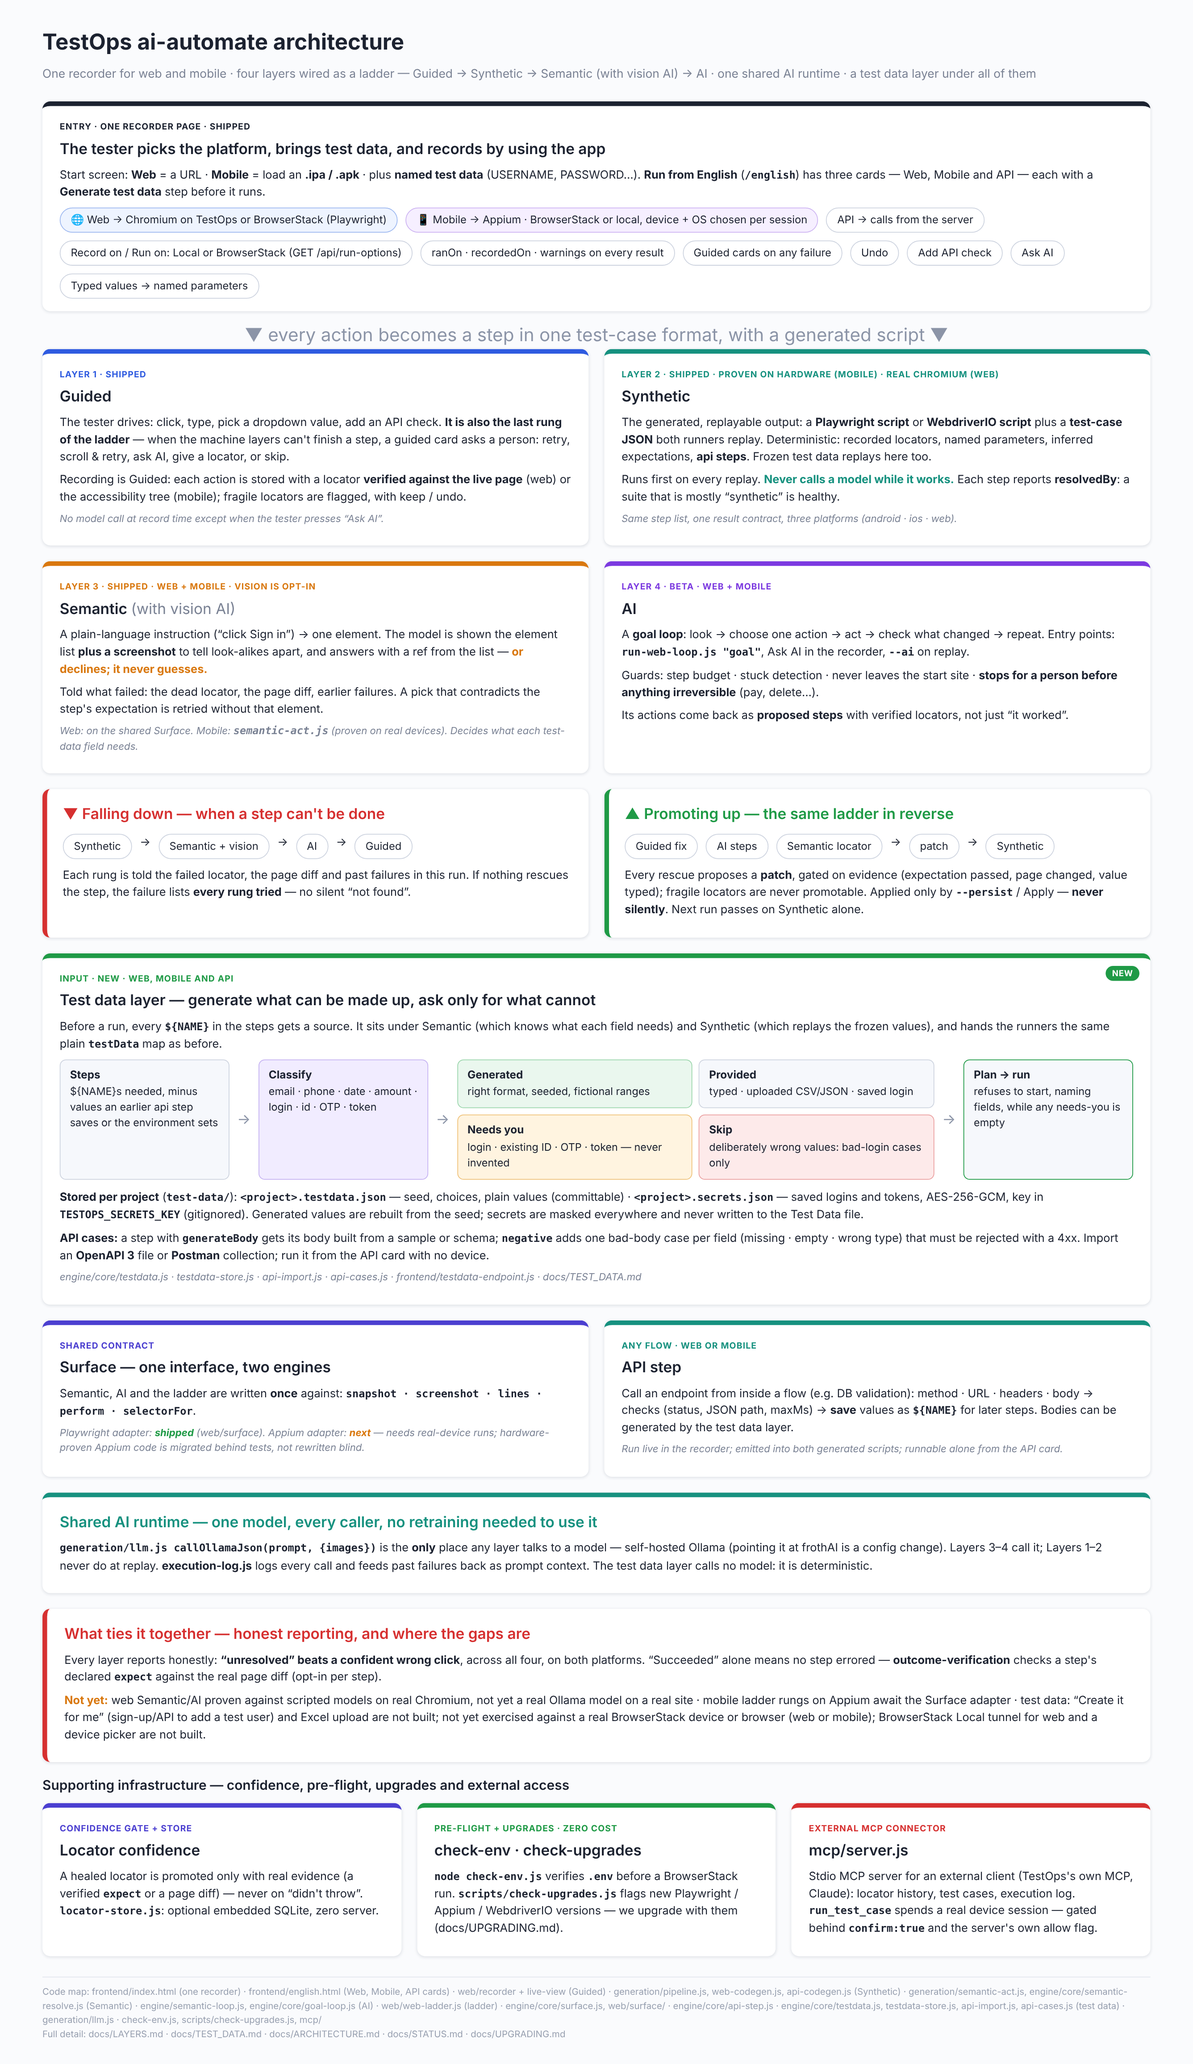
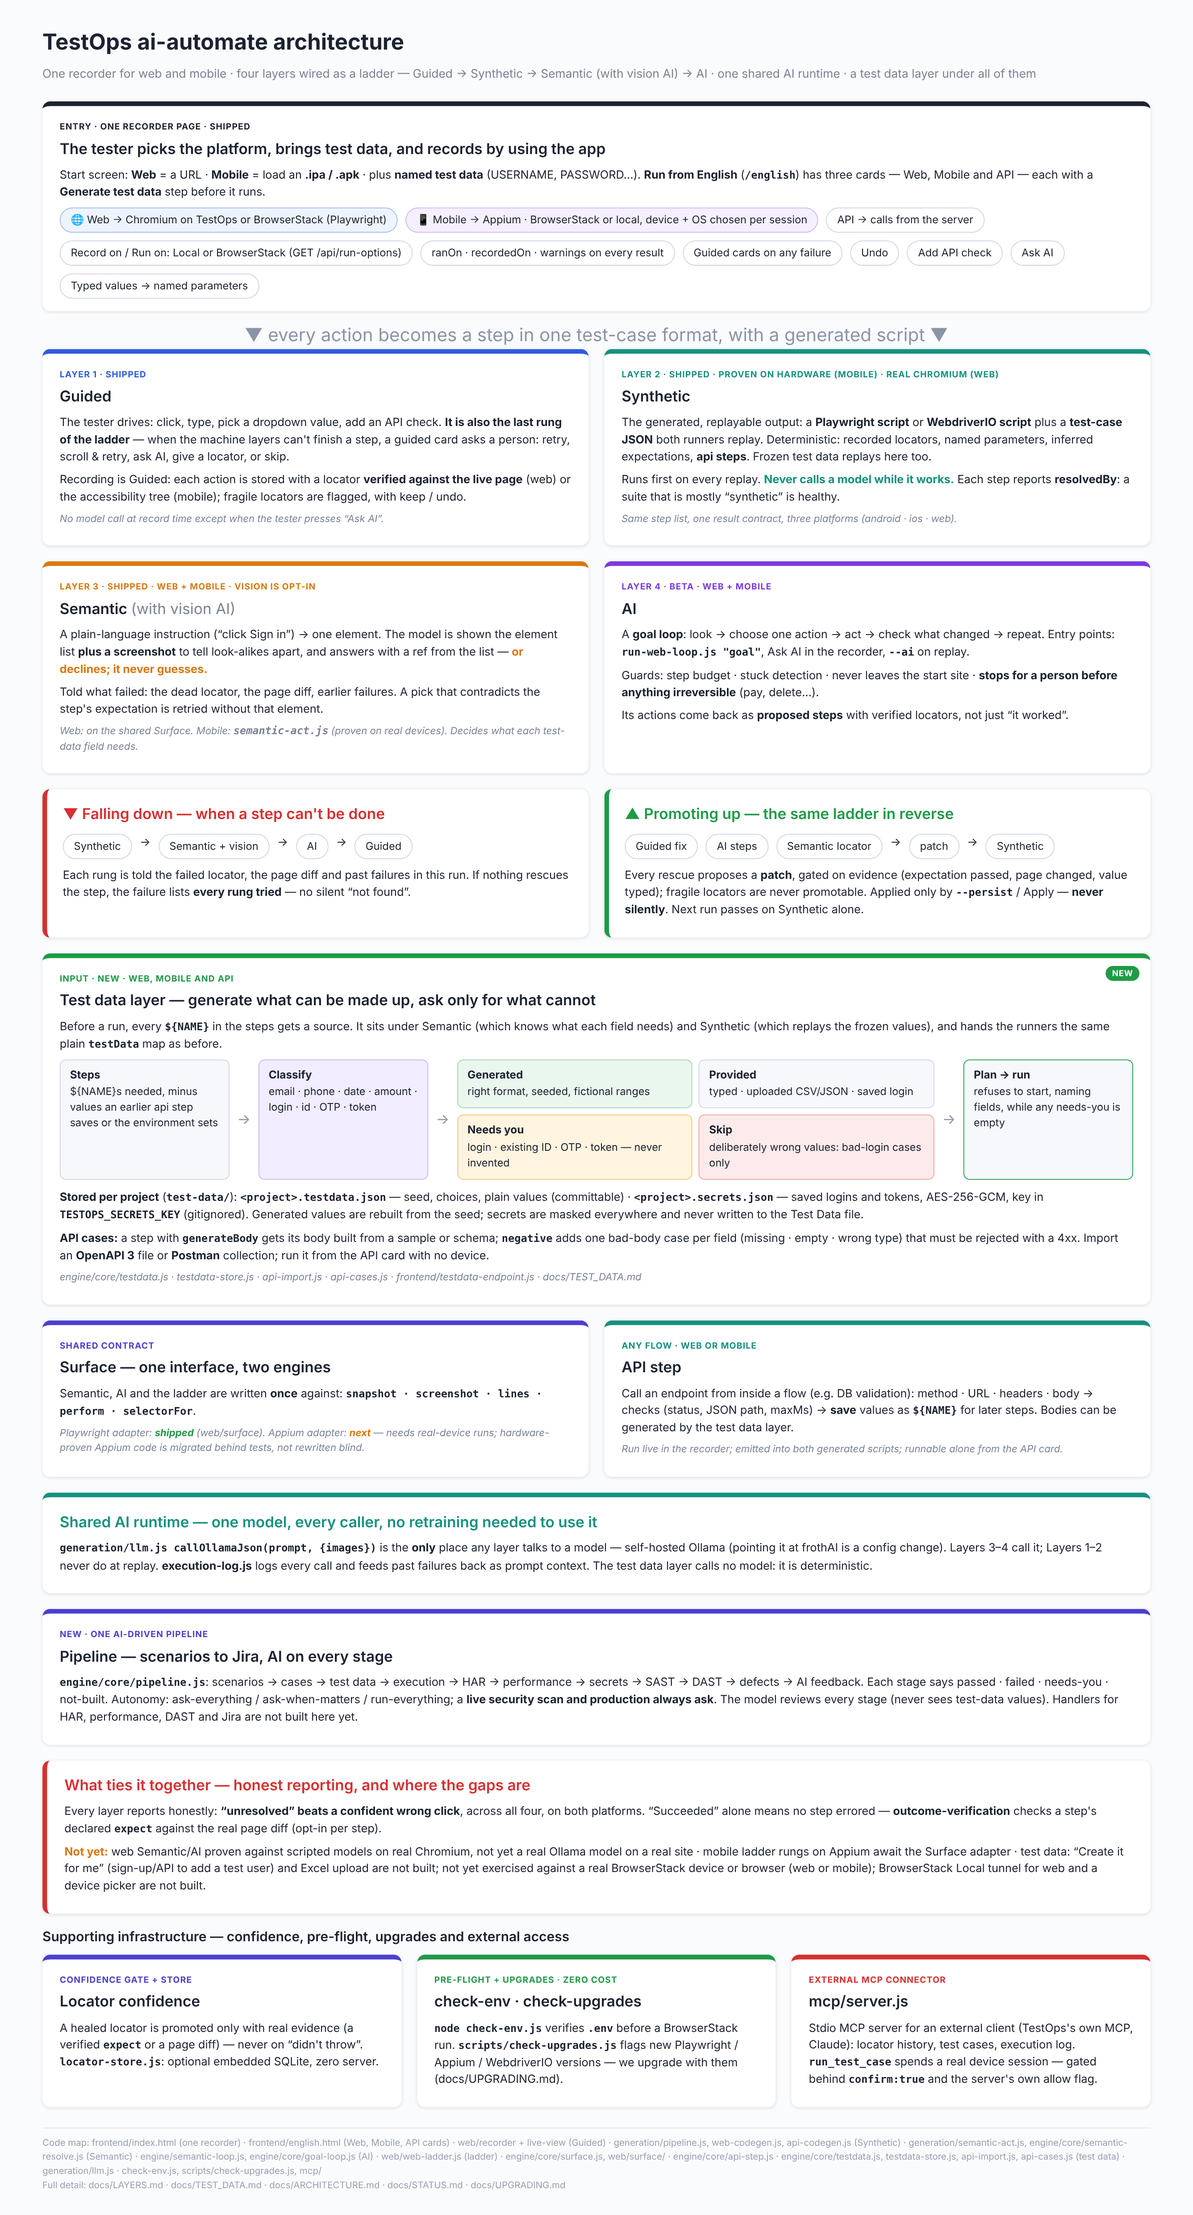
One AI-driven pipeline: staged run with autonomy levels, always-ask rules for live scans and production, AI review of every stage
Claude-Session: https://claude.ai/code/session_011mpsted7Jao3iwytnvk4Hc

diff --git a/engine/core/pipeline.js b/engine/core/pipeline.js
@@ -1,0 +1,126 @@
+/**
+ * One AI-driven pipeline: prompts -> scenarios -> cases -> test data -> execution -> HAR ->
+ * performance -> secrets -> SAST -> DAST -> defects -> AI feedback.
+ *
+ * Each stage reports one of: passed | failed | needs-you | skipped | not-built | unavailable.
+ * Autonomy (as on the AI Test Manager page): "ask-everything" | "ask-when-matters" (default) | "run-everything".
+ * Whatever the level, a live security scan (dast) and anything aimed at production always wait for an approval.
+ * "not-built" is stated plainly (no handler yet); nothing is faked as passed.
+ * A stage handler is `async (ctx) => ({ok:boolean, detail:string, data?:any})`.
+ * Handlers come from `handlers` (injected by the caller) or from the built-ins below.
+ */
+const { spawnSync } = require("child_process");
+
+// needs: stages that must have passed (or been skipped by choice) first.
+const STAGES = [
+  { id: "scenarios", name: "Test scenarios (prompts)", needs: [] },
+  { id: "cases", name: "Test cases (prompts)", needs: ["scenarios"] },
+  { id: "testdata", name: "Test data", needs: ["cases"] },
+  { id: "execution", name: "Test execution (local or BrowserStack)", needs: ["testdata"] },
+  { id: "har", name: "HAR capture", needs: ["execution"] },
+  { id: "performance", name: "Performance (Locust)", needs: ["cases"] },
+  { id: "secrets", name: "Secrets scan (Gitleaks)", needs: [] },
+  { id: "sast", name: "SAST (Semgrep, source code)", needs: [] },
+  { id: "dast", name: "DAST (ZAP, running app)", needs: [] },
+  { id: "defects", name: "Defects to Jira", needs: ["execution"], always: true },
+  { id: "feedback", name: "Logs, data and reports back to the AI", needs: [], always: true },
+];
+
+// Stages that act outside the project; they ask first unless the tester chose "run everything".
+const RISKY = new Set(["defects"]);
+// Stages that ask whatever the autonomy level.
+const ALWAYS_ASK = new Set(["dast"]);
+// Stages that touch the app under test; aimed at production, they always ask.
+const TOUCHES_APP = new Set(["execution", "har", "performance", "dast"]);
+function mustAsk(id, { autonomy = "ask-when-matters", approvals = {}, production = false }) {
+  const prod = production && TOUCHES_APP.has(id);
+  if (prod) return "production"; // production asks every time, even when approved
+  if (approvals[id]) return null;
+  if (ALWAYS_ASK.has(id)) return "always";
+  if (autonomy === "ask-everything") return "level";
+  if (autonomy === "ask-when-matters" && RISKY.has(id)) return "level";
+  return null;
+}
+const REASON = {
+  production: "it is aimed at production, which always needs your approval",
+  always: "it sends attack traffic to a live app, which always needs your approval",
+  level: "waiting for your approval at the autonomy level you chose",
+};
+
+const hasTool = (cmd, exec) => { try { const r = exec(cmd, ["--version"]); return r && r.status === 0; } catch { return false; } };
+const defaultExec = (cmd, args, opts = {}) => spawnSync(cmd, args, { encoding: "utf8", timeout: 600000, ...opts });
+
+/** Built-in handlers: only what Phoenix really does today. */
+function builtins({ exec = defaultExec } = {}) {
+  const scan = (cmd, args, label) => async (ctx) => {
+    if (!hasTool(cmd, exec)) return { unavailable: true, detail: `${cmd} is not installed on this machine` };
+    const r = exec(cmd, args(ctx.dir || "."));
+    // gitleaks exits 1 when it finds leaks; semgrep --error exits 1 on findings.
+    return { ok: r.status === 0, detail: r.status === 0 ? `${label}: no findings` : `${label}: findings or error (exit ${r.status})`, data: { stdout: String(r.stdout || "").slice(0, 4000) } };
+  };
+  return {
+    testdata: async (ctx) => {
+      const td = require("./testdata");
+      const names = td.requiredNames(ctx.steps || [], { env: ctx.env || process.env });
+      const plan = td.planTestData({ names, hints: {}, provided: ctx.testData || {}, mode: "generate", fill: true, choices: {}, canCreate: false, seed: ctx.seed || "pipeline" });
+      return plan.needsYou.length
+        ? { ok: false, detail: `needs you: ${plan.needsYou.join(", ")}`, data: { needsYou: plan.needsYou } }
+        : { ok: true, detail: `${plan.fields.length} field(s) ready`, data: { values: plan.values } };
+    },
+    secrets: scan("gitleaks", (d) => ["detect", "--no-git", "-s", d, "--redact"], "gitleaks"),
+    sast: scan("semgrep", (d) => ["--config", "auto", "--error", "--quiet", d], "semgrep"),
+  };
+}
+
+/**
+ * @param {{ctx?:Object, handlers?:Object, only?:string[], exec?:Function}} opts
+ * @returns {Promise<{ok:boolean, stages:Object[], summary:Object}>}
+ */
+async function runPipeline({ ctx = {}, handlers = {}, only, exec, ai, autonomy, approvals, production } = {}) {
+  const gate = { autonomy, approvals: approvals || {}, production: production === true || ctx.production === true };
+  const all = { ...builtins({ exec }), ...handlers };
+  const done = {};
+  const stages = [];
+  for (const st of STAGES) {
+    if (only && !only.includes(st.id)) { done[st.id] = "skipped"; stages.push({ id: st.id, name: st.name, status: "skipped", detail: "not selected" }); continue; }
+    const blocked = st.needs.find((n) => done[n] === "failed" || done[n] === "blocked");
+    if (blocked && !st.always) { done[st.id] = "blocked"; stages.push({ id: st.id, name: st.name, status: "skipped", detail: `waiting on ${blocked}` }); continue; }
+    const ask = mustAsk(st.id, gate);
+    if (ask && all[st.id]) { done[st.id] = "blocked"; stages.push({ id: st.id, name: st.name, status: "needs-you", detail: REASON[ask], approve: st.id }); continue; }
+    const h = all[st.id];
+    if (!h) { done[st.id] = "not-built"; stages.push({ id: st.id, name: st.name, status: "not-built", detail: "no handler yet" }); continue; }
+    try {
+      const r = (await h({ ...ctx, results: stages })) || {};
+      const status = r.unavailable ? "unavailable" : r.ok ? "passed" : "failed";
+      done[st.id] = status === "failed" ? "failed" : "ok";
+      stages.push({ id: st.id, name: st.name, status, detail: r.detail || "", ...(r.data ? { data: r.data } : {}) });
+    } catch (e) {
+      done[st.id] = "failed";
+      stages.push({ id: st.id, name: st.name, status: "failed", detail: e.message });
+    }
+  }
+  // AI pass: the model reads each stage's outcome (never its data, which can hold secrets)
+  // and writes a note: why it failed, what to do next, a draft defect. A failing model never fails the run.
+  if (ai) {
+    const brief = stages.map(({ id, status, detail }) => ({ id, status, detail }));
+    for (const st of stages) {
+      if (st.status === "skipped") continue;
+      try { const r = await ai({ stage: { id: st.id, status: st.status, detail: st.detail }, pipeline: brief }); if (r && r.note) st.ai = String(r.note); }
+      catch (e) { st.ai = `AI review unavailable: ${e.message}`; }
+    }
+  }
+  const count = (s) => stages.filter((x) => x.status === s).length;
+  const summary = { needsYou: count("needs-you"), passed: count("passed"), failed: count("failed"), skipped: count("skipped"), notBuilt: count("not-built"), unavailable: count("unavailable") };
+  return { ok: summary.failed === 0 && summary.needsYou === 0, stages, summary, needsYou: stages.filter((x) => x.status === "needs-you").map((x) => x.approve) };
+}
+
+/** Model-backed reviewer (self-hosted Ollama via generation/llm.js). Sends ids, statuses and short details only. */
+function llmReviewer({ callJson = require("../../generation/llm").callOllamaJson } = {}) {
+  return async ({ stage, pipeline }) => {
+    const prompt = `You are the QA pipeline's reviewer. Stage "${stage.id}" ended "${stage.status}": ${stage.detail}\n` +
+      `Whole run: ${JSON.stringify(pipeline)}\nReply JSON {"note":"one or two sentences: the likely cause and the next action"}.`;
+    return callJson(prompt);
+  };
+}
+
+module.exports = { STAGES, runPipeline, builtins, llmReviewer };

diff --git a/engine/test/pipeline.test.js b/engine/test/pipeline.test.js
@@ -1,0 +1,56 @@
+const assert = require("assert");
+const { STAGES, runPipeline } = require("../core/pipeline");
+
+(async () => {
+  // Nothing wired: every stage says so, none claims to have passed.
+  let r = await runPipeline({ exec: () => ({ status: 127 }) });
+  const by = (x, id) => x.stages.find((s) => s.id === id);
+  assert.strictEqual(r.stages.length, STAGES.length);
+  assert.strictEqual(by(r, "performance").status, "not-built");
+  assert.strictEqual(by(r, "secrets").status, "unavailable");
+  assert.strictEqual(by(r, "testdata").status, "passed"); // no steps: nothing needed
+  assert.strictEqual(r.summary.failed, 0);
+
+  // A must-exist value missing stops execution and HAR, but defects/feedback still run.
+  r = await runPipeline({ ctx: { steps: ["type ${LOGIN_TOKEN}"] }, handlers: { execution: async () => ({ ok: true }), defects: async () => ({ ok: true, detail: "none" }) }, autonomy: "run-everything", exec: () => ({ status: 127 }) });
+  assert.strictEqual(by(r, "testdata").status, "failed");
+  assert.strictEqual(by(r, "execution").status, "skipped");
+  assert.strictEqual(by(r, "har").status, "skipped");
+  assert.strictEqual(by(r, "defects").status, "passed");
+  assert.strictEqual(r.ok, false);
+
+  // Scanner present: findings fail the stage; clean passes.
+  r = await runPipeline({ only: ["secrets", "sast"], exec: (cmd, args) => (args[0] === "--version" ? { status: 0 } : { status: cmd === "gitleaks" ? 1 : 0, stdout: "x" }) });
+  assert.strictEqual(by(r, "secrets").status, "failed");
+  assert.strictEqual(by(r, "sast").status, "passed");
+
+  // A throwing handler is a failed stage, not a crash.
+  r = await runPipeline({ only: ["performance"], handlers: { performance: async () => { throw new Error("locust down"); } } });
+  assert.strictEqual(by(r, "performance").detail, "locust down");
+  // AI pass: sees status and detail only, never data; a throwing model does not fail the run.
+  const seen = [];
+  r = await runPipeline({ ctx: { steps: [] }, handlers: { execution: async () => ({ ok: false, detail: "timeout", data: { secret: "S3CR3T" } }) }, only: ["execution"], ai: async (x) => { seen.push(JSON.stringify(x)); return { note: "retry on a fresh session" }; } });
+  assert.strictEqual(by(r, "execution").ai, "retry on a fresh session");
+  assert.ok(!seen.join("").includes("S3CR3T"));
+  r = await runPipeline({ only: ["performance"], handlers: { performance: async () => ({ ok: true }) }, ai: async () => { throw new Error("model down"); } });
+  assert.strictEqual(by(r, "performance").status, "passed");
+  assert.ok(/AI review unavailable/.test(by(r, "performance").ai));
+  // Autonomy and always-ask gates.
+  const ok = async () => ({ ok: true, detail: "done" });
+  const hs = { execution: ok, dast: ok, defects: ok, performance: ok };
+  r = await runPipeline({ handlers: hs, exec: () => ({ status: 127 }) });
+  assert.strictEqual(by(r, "dast").status, "needs-you");            // live scan always asks
+  assert.strictEqual(by(r, "defects").status, "needs-you");         // default level asks before Jira
+  assert.strictEqual(by(r, "performance").status, "passed");
+  assert.deepStrictEqual(r.needsYou.sort(), ["dast", "defects"]);
+  r = await runPipeline({ handlers: hs, autonomy: "run-everything", exec: () => ({ status: 127 }) });
+  assert.strictEqual(by(r, "dast").status, "needs-you");            // still asks
+  assert.strictEqual(by(r, "defects").status, "passed");
+  r = await runPipeline({ handlers: hs, autonomy: "run-everything", approvals: { dast: true }, exec: () => ({ status: 127 }) });
+  assert.strictEqual(by(r, "dast").status, "passed");
+  r = await runPipeline({ handlers: hs, autonomy: "run-everything", approvals: { execution: true, dast: true }, production: true, exec: () => ({ status: 127 }) });
+  assert.strictEqual(by(r, "execution").status, "needs-you");       // production asks even when approved
+  r = await runPipeline({ handlers: hs, autonomy: "ask-everything", exec: () => ({ status: 127 }) });
+  assert.strictEqual(by(r, "performance").status, "needs-you");
+  console.log("pipeline tests passed");
+})().catch((e) => { console.error(e); process.exit(1); });

diff --git a/docs/diagrams/architecture.html b/docs/diagrams/architecture.html
@@ -52,6 +52,7 @@ code,.m{font-family:"JetBrains Mono",Menlo,monospace;font-weight:700;font-size:1
 
 <div class="card green" style="border-top-color:#16917f"><h2 style="color:#16917f">Shared AI runtime — one model, every caller, no retraining needed to use it</h2><p><b class="m">generation/llm.js callOllamaJson(prompt, {images})</b> is the <b>only</b> place any layer talks to a model — self-hosted Ollama (pointing it at frothAI is a config change). Layers 3–4 call it; Layers 1–2 never do at replay. <b>execution-log.js</b> logs every call and feeds past failures back as prompt context. The test data layer calls no model: it is deterministic.</p></div>
 
+<div class="card indigo"><div class="eyebrow">New · one AI-driven pipeline</div><h2>Pipeline — scenarios to Jira, AI on every stage</h2><p><b class="m">engine/core/pipeline.js</b>: scenarios → cases → test data → execution → HAR → performance → secrets → SAST → DAST → defects → AI feedback. Each stage says passed · failed · needs-you · not-built. Autonomy: ask-everything / ask-when-matters / run-everything; a <b>live security scan and production always ask</b>. The model reviews every stage (never sees test-data values). Handlers for HAR, performance, DAST and Jira are not built here yet.</p></div>
 <div class="card red" style="border-top:0;border-left:6px solid #d63030"><h2 style="color:#d63030">What ties it together — honest reporting, and where the gaps are</h2><p>Every layer reports honestly: <b>“unresolved” beats a confident wrong click</b>, across all four, on both platforms. “Succeeded” alone means no step errored — <b>outcome-verification</b> checks a step's declared <b class="m">expect</b> against the real page diff (opt-in per step).</p><p><b style="color:#d9780f">Not yet:</b> web Semantic/AI proven against scripted models on real Chromium, not yet a real Ollama model on a real site · mobile ladder rungs on Appium await the Surface adapter · test data: “Create it for me” (sign-up/API to add a test user) and Excel upload are not built; not yet exercised against a real BrowserStack device or browser (web or mobile); BrowserStack Local tunnel for web and a device picker are not built.</p></div>
 
 <div class="sec">Supporting infrastructure — confidence, pre-flight, upgrades and external access</div>

diff --git a/docs/PIPELINE.md b/docs/PIPELINE.md
@@ -1,0 +1,34 @@
+# One AI-driven pipeline
+
+`engine/core/pipeline.js` runs one flow, in the order of the AI Test Manager page:
+scenarios, cases, test data, execution, HAR, performance (Locust), secrets (Gitleaks), SAST (Semgrep, source code), DAST (ZAP, running app), defects (Jira), and AI feedback.
+
+Every stage reports `passed`, `failed`, `needs-you`, `skipped`, `not-built` or `unavailable`. A stage with no handler says `not-built`; nothing is shown as passed that did not run.
+
+## Stage status today
+
+| Stage | State in Phoenix |
+|---|---|
+| Test data | Built in (`testdata.js`); stops while a must-exist value is missing |
+| Secrets, SAST | Runs `gitleaks` / `semgrep` when installed on the machine, else `unavailable` |
+| Execution | Handler is injected by the caller (English run, test-case runner) |
+| Scenarios, cases | Injected; the prompts live in the registry (`prompts/prompts.yaml`) |
+| HAR, performance, DAST, defects, AI feedback | `not-built` here; inject a handler (TestOps's, or new code) |
+
+## How much the AI asks
+
+`autonomy`: `ask-everything`, `ask-when-matters` (default: asks before logging defects in Jira), `run-everything`.
+Whatever the level, a live security scan (DAST) and anything aimed at production (execution, HAR, performance, DAST) always wait for an approval. Pass `approvals: {dast: true}` once the person approves; production still asks every time.
+A stage waiting on a person is `needs-you`; the stages that depend on it wait.
+
+## AI on every stage
+
+Pass `ai: llmReviewer()` (self-hosted Ollama through `generation/llm.js`). After the run the model reads each stage's id, status and short detail and writes a note: likely cause, next action. It never sees a stage's `data` (which can hold test-data values), and a model failure never fails the run.
+
+```js
+const { runPipeline, llmReviewer } = require("./engine/core/pipeline");
+const r = await runPipeline({ ctx: { steps, dir: "." }, handlers: { execution }, autonomy: "ask-when-matters", ai: llmReviewer() });
+// r.stages, r.summary, r.needsYou
+```
+
+Tests: `engine/test/pipeline.test.js`. Not yet: an HTTP route or a page for it, the real handlers for HAR, performance, DAST and Jira, and feeding results back into the prompts.

diff --git a/README.md b/README.md
@@ -15,6 +15,7 @@ Testers record a flow once, inside TestOps — no Appium Inspector, no local ins
 | [`docs/ARCHITECTURE.md`](docs/ARCHITECTURE.md) | Engineering, integrators | How the mobile and web recorders, generators and runners fit together: diagrams, protocols, step format, design decisions |
 | [`docs/LAYERS.md`](docs/LAYERS.md) | Everyone | The four layers as a ladder (falling down, promoting up), API steps, test data, the Surface, safety rails, how to use it |
 | [`docs/TEST_DATA.md`](docs/TEST_DATA.md) | Testers, engineering | The test data layer: generate or upload data for web, API and mobile, ask only for what cannot be made up, where it is stored, API bodies and bad-body cases, OpenAPI/Postman import |
+| [`docs/PIPELINE.md`](docs/PIPELINE.md) | Engineering | One AI-driven flow from scenarios to Jira: stage status, autonomy levels, always-ask rules, AI review of every stage |
 | [`docs/RUN_TARGETS.md`](docs/RUN_TARGETS.md) | Testers, engineering | Where a recording or run happened (local or BrowserStack, Appium or Playwright), choosing Chromium on TestOps or BrowserStack for web, and letting TestOps pass the target in |
 | [`docs/UPGRADING.md`](docs/UPGRADING.md) | Engineering | When Playwright/Appium ship upgrades we upgrade too: the check script and the routine |
 | [`docs/STATUS.md`](docs/STATUS.md) | Engineering — the source of truth | Every capability, every real bug found and fixed with root cause and evidence, what's still open. If a claim anywhere else in these docs needs checking, this is where it's backed up |

diff --git a/docs/STATUS.md b/docs/STATUS.md
@@ -14,6 +14,7 @@ touches it.
 
 - [Test data layer](#test-data-layer)
 - [Run targets: Local or BrowserStack](#run-targets-local-or-browserstack)
+- [Pipeline](PIPELINE.md)
 - [Handoff to the dev team](#handoff-to-the-dev-team)
 - [The "AI" question, answered precisely](#the-ai-question-answered-precisely)
 - [Recording and script generation](#recording-and-script-generation)
